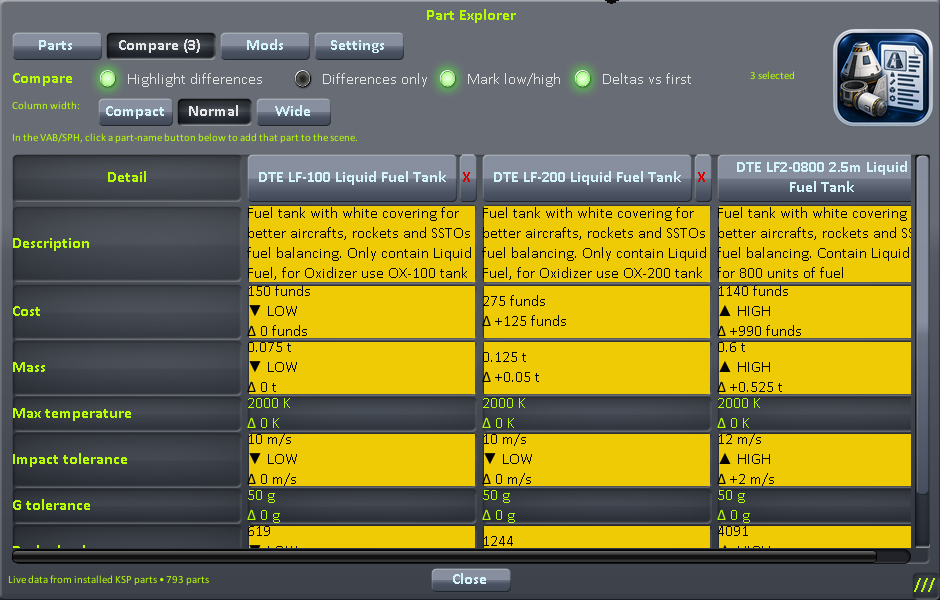
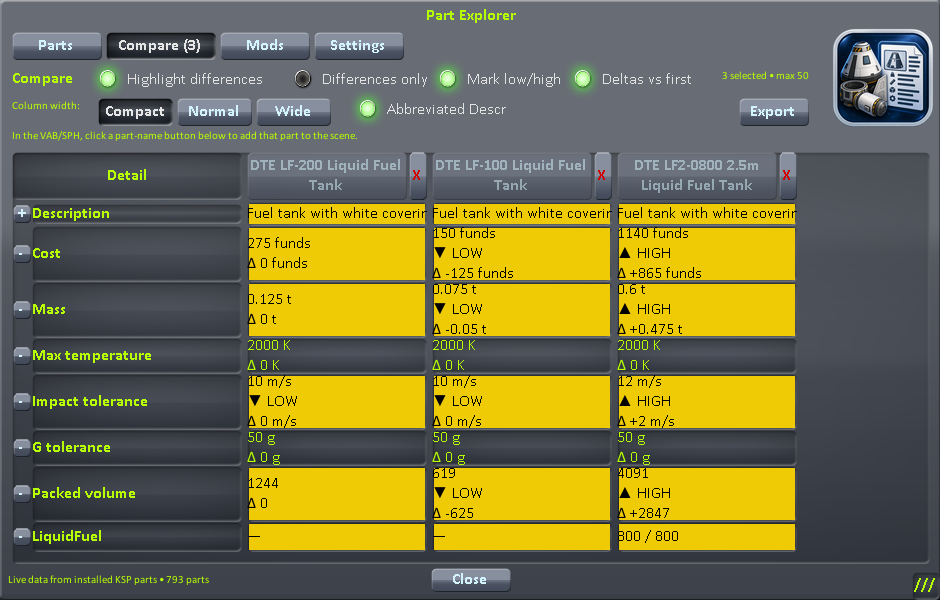
Updated images and export window

diff --git a/PartExplorer/PartExplorer.cs b/PartExplorer/PartExplorer.cs
@@ -19,7 +19,7 @@ namespace PartExplorer
         private const int CategorySelectorPopupId = 921736;
         private const int ExportWindowId = 921739;
         private const int SettingsWindowId = 921740;
-        private const string CurrentVersion = "0.1.74";
+        private const string CurrentVersion = "0.1.75";
         internal const string ModId = "PartExplorer";
         internal const string ModName = "Part Explorer";
         private const string ToolbarButtonId = "PartExplorerButton";
@@ -77,7 +77,7 @@ namespace PartExplorer
         // Export window state. Exporting always uses the already-cached PartRecord
         // data; opening this window never rebuilds the KSP part database.
         private bool exportVisible;
-        private Rect exportWindowRect = new Rect(220f, 120f, 700f, 690f);
+        private Rect exportWindowRect = new Rect(220f, 120f, 700f, 600f);
         private Vector2 exportFieldScroll;
         private PartExportScope exportScope = PartExportScope.CurrentResults;
         private PartExportFormat exportFormat = PartExportFormat.Csv;
@@ -487,7 +487,7 @@ namespace PartExplorer
             if (exportVisible)
             {
                 exportWindowRect = ClickThruBlocker.GUILayoutWindow(ExportWindowId, exportWindowRect, DrawExportWindow, "Export Parts",
-                    GUILayout.Width(700f), GUILayout.Height(690f));
+                    GUILayout.Width(700f), GUILayout.Height(600f));
                 exportWindowRect.x = Mathf.Clamp(exportWindowRect.x, 0f, Mathf.Max(0f, Screen.width - exportWindowRect.width));
                 exportWindowRect.y = Mathf.Clamp(exportWindowRect.y, 0f, Mathf.Max(0f, Screen.height - 40f));
             }
@@ -4008,7 +4008,7 @@ namespace PartExplorer
             exportVisible = true;
 
             float width = 700f;
-            float height = 690f;
+            float height = 600f;
             exportWindowRect.width = width;
             exportWindowRect.height = height;
             exportWindowRect.x = Mathf.Clamp(windowRect.center.x - width * 0.5f, 0f, Mathf.Max(0f, Screen.width - width));
@@ -4086,7 +4086,7 @@ namespace PartExplorer
                     GUILayout.FlexibleSpace();
                 }
 
-                exportFieldScroll = GUILayout.BeginScrollView(exportFieldScroll, GUI.skin.box, GUILayout.Height(220f));
+                exportFieldScroll = GUILayout.BeginScrollView(exportFieldScroll, GUI.skin.box, GUILayout.Height(130f));
                 PartExportField[] values = (PartExportField[])Enum.GetValues(typeof(PartExportField));
                 for (int i = 0; i < values.Length; i += 2)
                 {

diff --git a/PartExplorer/AssemblyVersion.cs b/PartExplorer/AssemblyVersion.cs
@@ -10,8 +10,8 @@
   
  using System.Reflection;
 
- [assembly: AssemblyVersion("0.1.74.0")]
- [assembly: AssemblyFileVersion("0.1.74.0")]
+ [assembly: AssemblyVersion("0.1.75.0")]
+ [assembly: AssemblyFileVersion("0.1.75.0")]
 
 [assembly: KSPAssemblyDependency("ToolbarController", 1, 0)]
 [assembly: KSPAssemblyDependency("ClickThroughBlocker", 1, 0)]
